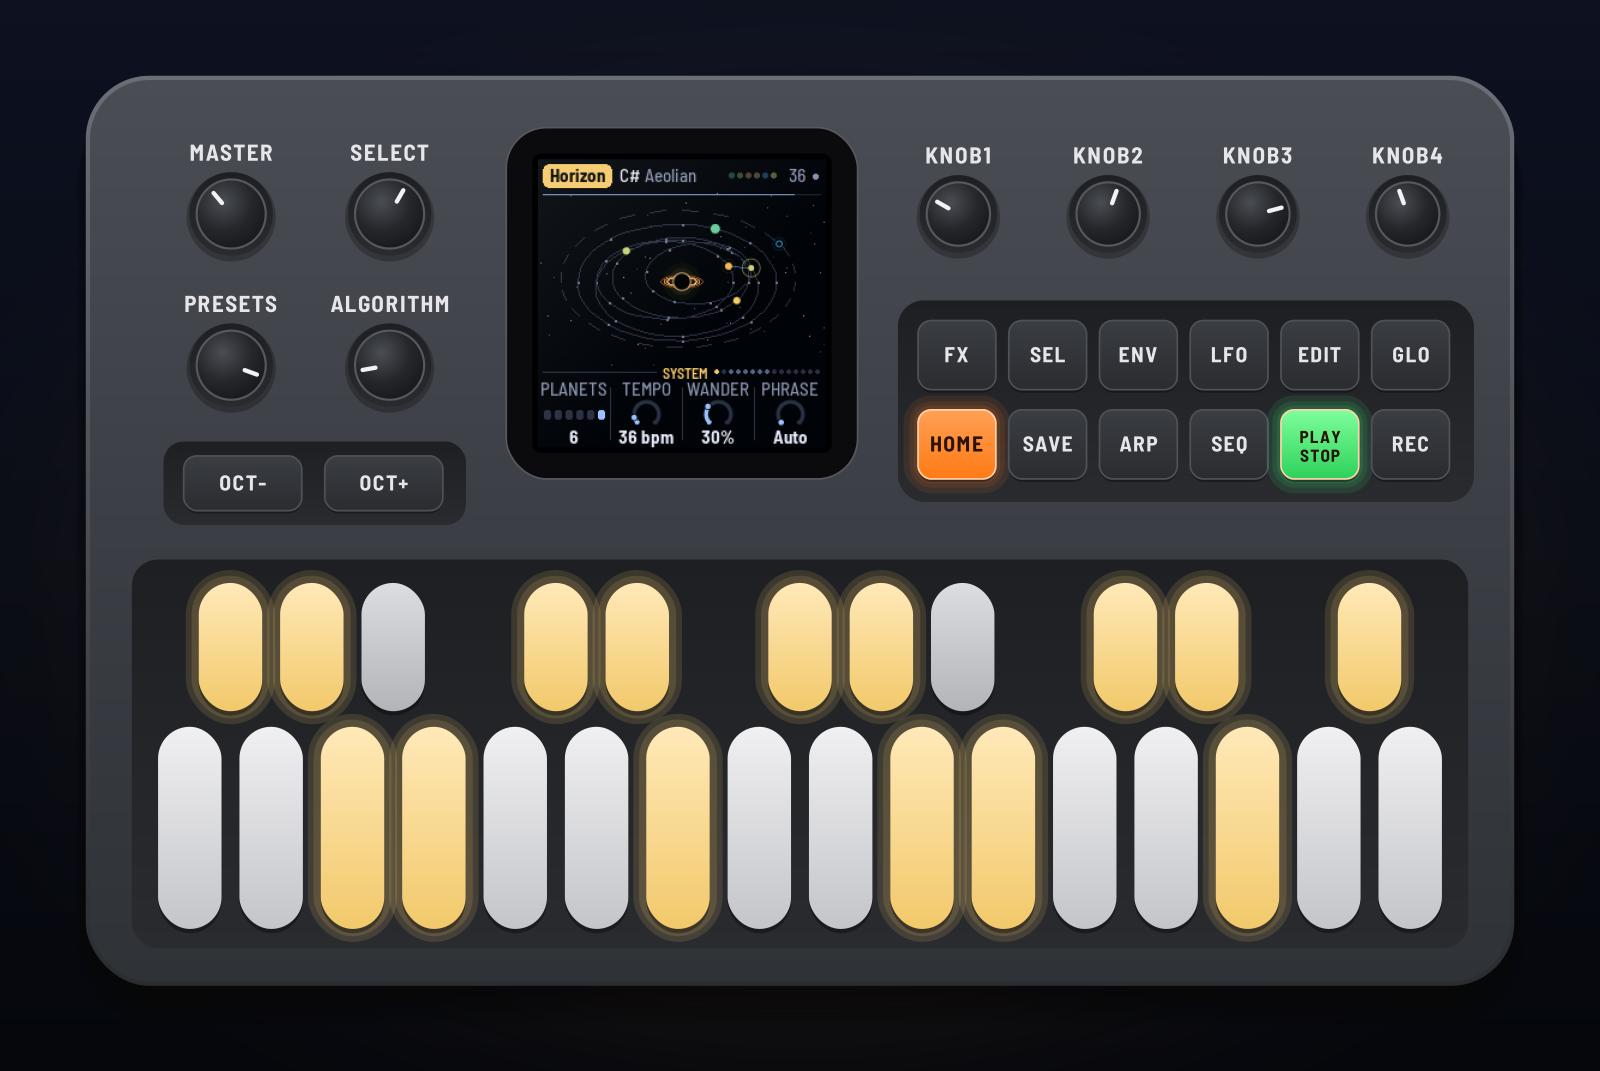
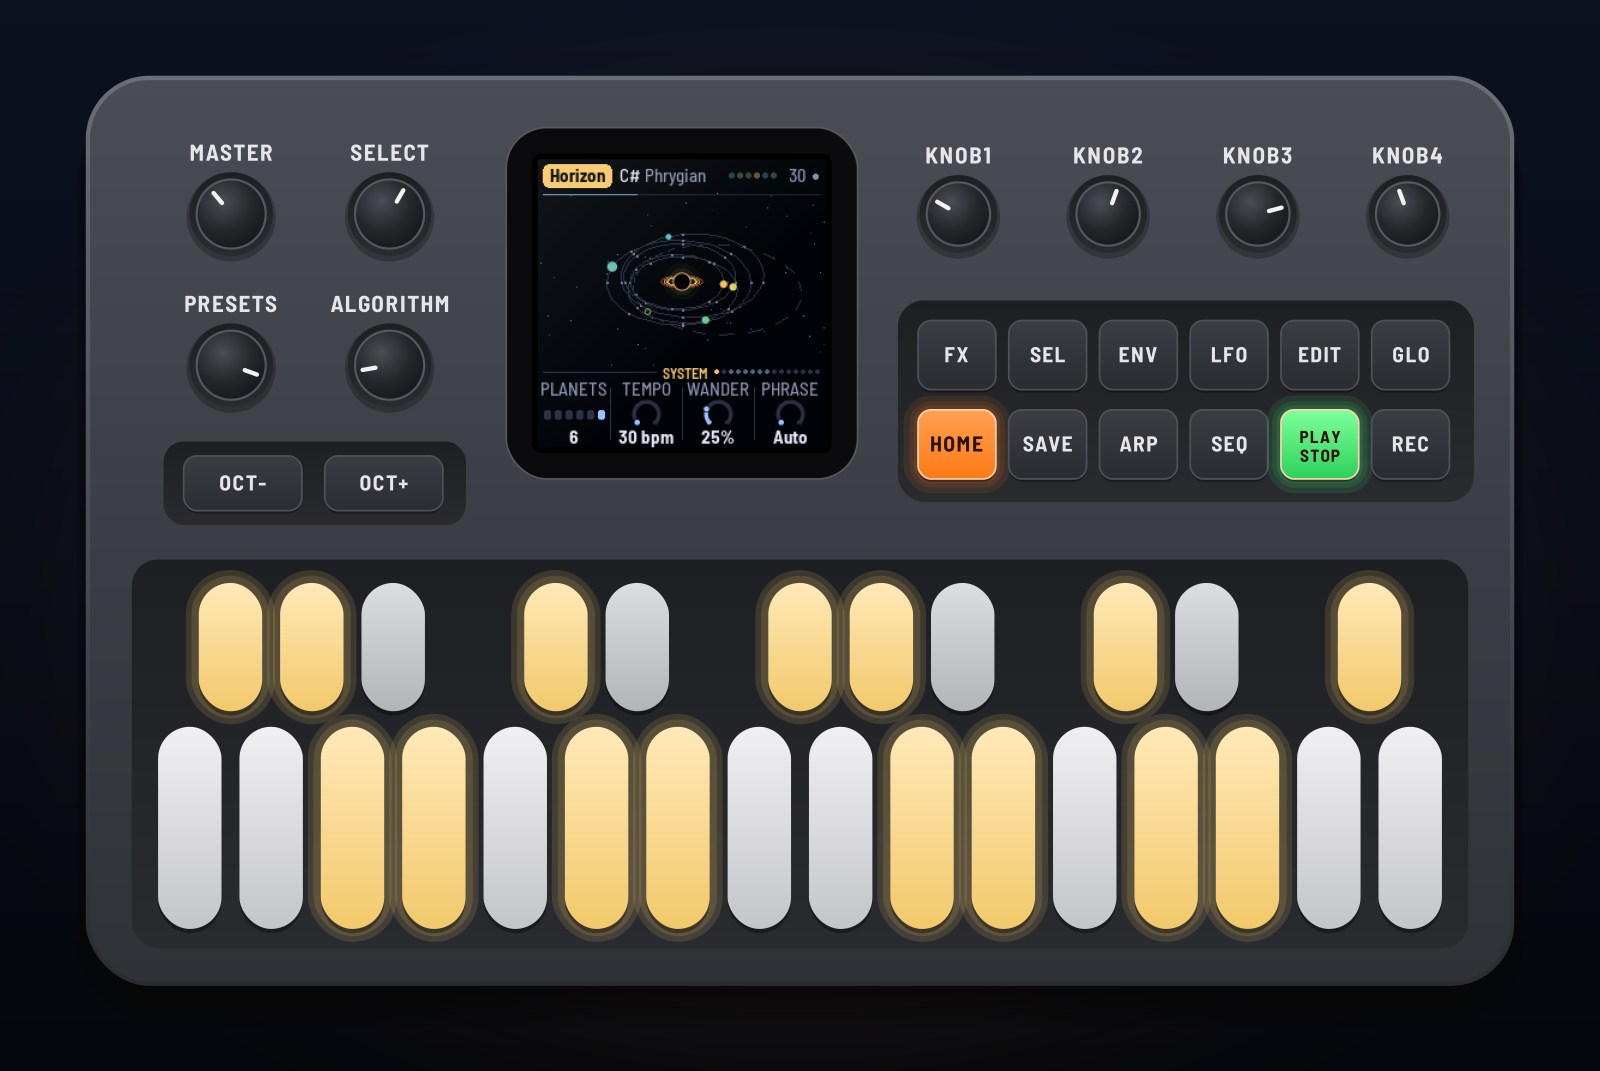
GRAV-1: Horizon, the black hole, now the darkest and slowest system
C# Phrygian at 30 BPM, every planet a dark voice (Abyss, Dark choir, Toll, Cello, Gong), sparse
drums, deep reverb and radio. Planet 6 is the drifter: a small Whisper on a long ellipse with an
empty lane, asleep, waking only when a bigger world swings past (about three times in ten minutes).

Claude-Session: https://claude.ai/code/session_015GxVG61iLJtUFnfKKS4zTt

diff --git a/grav1/web/emu/index.html b/grav1/web/emu/index.html
@@ -204,7 +204,7 @@ kbd { font: 600 .85em ui-monospace, Menlo, monospace; background: var(--card); b
   </div>
   <div>
     <h2>The systems</h2>
-    <p>Ten, one for each of the star's colours and two more: <b>Sol</b> (yellow), <b>Lumen</b> (white), <b>Rosette</b> (pink), <b>Ember</b> (a brown dwarf, dusty, an abyss under it), <b>Rigel</b> (a blue giant), <b>Veil</b> (violet), <b>Cinder</b> (grey), <b>Horizon</b> (a black hole, tolling), <b>Kuiper</b> (cold, slow, full of dormant worlds and comets) and <b>Nova</b> (quick, bright, flaring).</p>
+    <p>Ten, one for each of the star's colours and two more: <b>Sol</b> (yellow), <b>Lumen</b> (white), <b>Rosette</b> (pink), <b>Ember</b> (a brown dwarf, dusty, an abyss under it), <b>Rigel</b> (a blue giant), <b>Veil</b> (violet), <b>Cinder</b> (grey), <b>Horizon</b> (a black hole: the darkest and slowest, every voice a dark one, a quiet drifting planet), <b>Kuiper</b> (cold, slow, full of dormant worlds and comets) and <b>Nova</b> (quick, bright, flaring).</p>
     <p>What you hear is the firmware running at the FM-1's 44.1 kHz, not a recording. Running FM-1 firmware in the browser comes from <a href="https://www.groove-os.com/">Groove OS</a>'s emulator, by way of AMB-1.</p>
   </div>
 </section>

diff --git a/grav1/firmware/src/dsp/amb.c b/grav1/firmware/src/dsp/amb.c
@@ -86,9 +86,12 @@ static const piece_t PIECES[EN_NPIECES] = {
     {"Cinder", 5, 4, 5, 2, 1, 44, 25, 80, 22, 80, 45, 30, 10, 30, 70, 35, 70, 25, 20, 20,
      {15, 10, 13, 12, 2, 6}, {85, 60, 40, 36, 40, 40}, {10, 25, 10, 10, 20, 20}, {0, 0, 0, 0, 0, 0}, {1, 3, 0, 0, 0, 0},
      {"x.......x.......", "..x.....x.....x.", "................", "................", "x...x...x...x...", "..x...x...x...x."}},
-    {"Horizon", 6, 6, 1, 0, 2, 36, 30, 75, 20, 80, 60, 50, 25, 50, 75, 55, 80, 25, 20, 20,
-     {8, 7, 12, 6, 9, 11}, {85, 55, 50, 45, 36, 34}, {5, 15, 25, 10, 5, 40}, {-1, 0, 0, 0, 0, 0}, {1, 0, 2, 4, 0, 3},
-     {"x...............", "x.......x.......", "..x.......x..x..", "x.....x.....x...", "................", ".x..x..x..x..x.."}},
+    /* Horizon: the black hole. The darkest and slowest: C# Phrygian at 30 BPM, every voice a dark one, the
+     * drums sparse. Planet 6, a Whisper, is the drifter: small, on a long ellipse, its lane empty, so it sleeps
+     * and only sighs when a bigger world swings past it */
+    {"Horizon", 6, 6, 1, 2, 1, 30, 25, 80, 24, 55, 60, 50, 15, 50, 85, 55, 80, 30, 20, 15,
+     {8, 9, 12, 10, 11, 13}, {85, 50, 45, 50, 40, 25}, {5, 15, 25, 10, 20, 45}, {0, 0, -1, 0, -1, 0}, {1, 0, 2, 4, 0, 0},
+     {"x...............", "x.......x.......", "..x.......x.....", "x.....x.....x...", "....x...........", "................"}},
     {"Kuiper", 3, 5, 6, 0, 2, 34, 20, 85, 24, 85, 40, 25, 10, 45, 80, 40, 85, 25, 45, 40,
      {8, 6, 13, 14, 12, 10}, {85, 60, 40, 38, 34, 40}, {5, 30, 10, 15, 20, 20}, {-1, 0, 0, 0, 1, 0}, {1, 4, 0, 0, 0, 0},
      {"x...............", "........x.......", "................", "................", "................", "x...x...x...x..."}},

diff --git a/grav1/docs/MANUAL.md b/grav1/docs/MANUAL.md
@@ -166,7 +166,7 @@ a crackle and a flare. Weather holds in an eclipse and while resting.
 | **Rigel** | Blue giant | Six planets in G major pentatonic, quick, a long-ellipse laser. |
 | **Veil** | Violet | Five planets in B Hirajoshi, ether and ring hiss. |
 | **Cinder** | Grey dwarf | Four planets in F Phrygian: a dusk organ, a cello, two dormant worlds. |
-| **Horizon** | Black hole | Six planets in C# Aeolian, very slow: the Abyss, tolls, a gong, radio-heavy, crackling. |
+| **Horizon** | Black hole | The darkest and slowest: C# Phrygian at 30 BPM, every voice a dark one (Abyss, Dark choir, Toll, Cello, Gong), sparse drums, radio and crackle. Planet 6, a Whisper, is the drifter: small, on a long ellipse, asleep, sighing only when a bigger world swings past. |
 | **Kuiper** | Blue giant | Five planets far out, three of them dormant (whisper, cold pad, toll); asteroids and comets. |
 | **Nova** | White | Six planets in Bb Dorian at 70 BPM, flaring, comets. |
 
